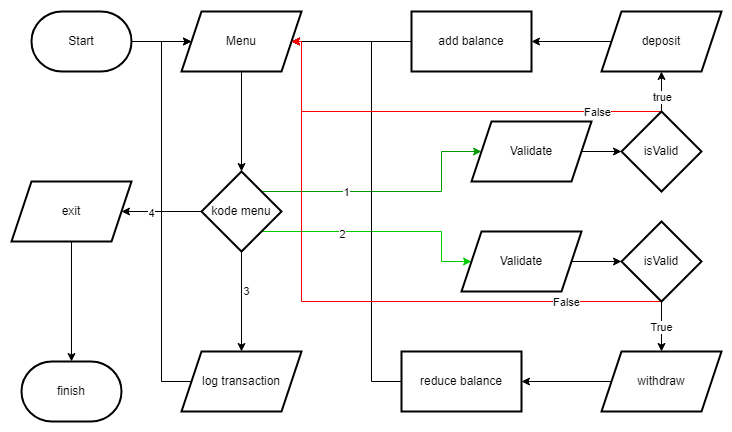
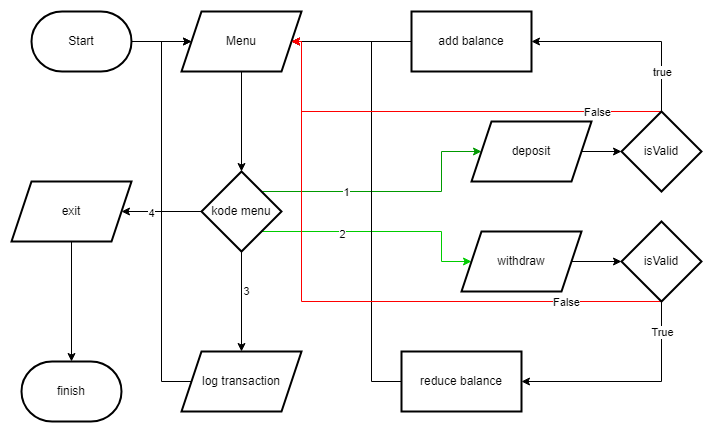
docs: adding flowchart description & update flowchart image

diff --git a/readme.md b/readme.md
@@ -2,9 +2,28 @@
   Chapter 2 - Basic-Banking-System
 </h1>
 
+# Flowchart
 <div id='image' align='center'>
 <img src='./assets/flowchart-ch2-bejs.png' alt='flowchart' title='flowchart banking_system - Viery Nugroho'>
-</div>
+/div>
+
+1. **START**
+2. program dimulai maka akan menampilkan menu dengan 4 pilihan/kode menu (deposit, withdraw, log transaction, exit)
+3. jika memilih kode menu 1 = memilih deposit
+   1. menampilkan halaman deposit (add balance)
+   2. memvalidasi input add balance
+   3. jika gagal diarahkan ke menu dan menampilkan pesan kesalahan && jika valid diarahkan ke menu dengan menampilkan pesan sukses dan transaksi sukses
+4. jika memilih kode menu 2 = memilih withdraw
+   1. menampilkan halaman withdraw (balance reduction)
+   2. memvalidasi input withdraw/balance reduction
+   3. jika gagal diarahkan ke menu dan menampilkan pesan kesalahan && jika valid diarahkan ke menu dengan menampilkan pesan sukses dan transaksi sukses
+5. jika memilih kode menu 3 = memilih log transaksi
+   1. kembali ke halaman menu dan menampilkan log transaksi
+6. jika memilih kode menu 4 = memilih exit
+   1. menampilkan kalimat konfirmasi apakah ingin keluar dari banking system
+   2. jika menekan y || Y maka akan mengakhiri sistem, jika selain y || Y akan kembali ke menu
+7. **FINISH**
+
 
 # HOW TO RUNNING THIS PROJECT
 
